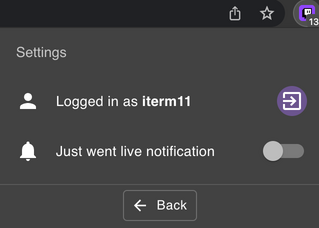
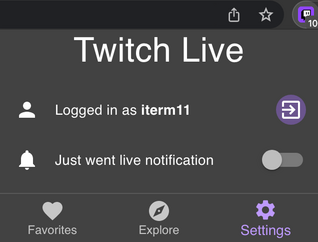
Update documentation

diff --git a/src/infrastructure/background/justWenLiveNotifications.ts b/src/infrastructure/background/justWenLiveNotifications.ts
@@ -3,9 +3,10 @@ import { getJustWentLive } from '../twitch/twitchService';
 import { browser, Notifications } from 'webextension-polyfill-ts';
 import { isFirefox } from '../../utils/browserUtils';
 import { isWindows } from '../../utils/operatingSystem';
-import CreateNotificationOptions = Notifications.CreateNotificationOptions;
 
-const createNotificationOptions = (stream: FollowedLivestream): CreateNotificationOptions => {
+const createNotificationOptions = (
+    stream: FollowedLivestream,
+): Notifications.CreateNotificationOptions => {
     const game: string = (stream.game && `Streaming ${stream.game}`) || 'Stream game is not set';
     const clickHereMessage = 'Click here to watch it';
 
@@ -28,7 +29,9 @@ export const processJustWentLiveNotificationsAlarm = async () => {
         const justWentLiveStreams: FollowedLivestream[] = await getJustWentLive();
 
         justWentLiveStreams.map(async (stream: FollowedLivestream) => {
-            const options: CreateNotificationOptions = createNotificationOptions(stream);
+            const options: Notifications.CreateNotificationOptions = createNotificationOptions(
+                stream,
+            );
             const notificationId: string = await browser.notifications.create(options);
             linkMap[notificationId] = stream.url;
         });

diff --git a/README.md b/README.md
@@ -34,6 +34,13 @@ The extension is available for [Chrome/Microsoft Edge](https://chrome.google.com
 ![Extension List](./assets/extension_no_hover_icon_changelog.png "Extension")
 ![Extension Over](./assets/extension_hover_icon_changelog.png "Extension Over")
 
+## Explore Top livestreams
+
+On the Explore tab, you can see the livestreams with most viewers order descently. Once you reach the bottom of the list, more streams will be loaded.
+
+![Explore](./assets/explore_changelog.png "Explore")
+![Explore Loading](./assets/explore_loading_changelog.png "Explore Loading")
+
 
 ## Settings
 

diff --git a/changelogs/3_3_0.md b/changelogs/3_3_0.md
@@ -1,0 +1,9 @@
+# Twitch Live Extension v3.3.0
+
+**_Twitch Live Extension_** has the ability to look through the list of the most watched livestreams! To use this feature, open the extension, press "Explore" and scroll through the infinite list of streams.
+
+Apart from this new feature, the UI has been slightly changed to be more user friendly.
+
+
+![Extension Over](../assets/extension_hover_icon_changelog.png "Extension Over")
+![Explore](../assets/explore_changelog.png "Explore")

diff --git a/CHANGELOG.md b/CHANGELOG.md
@@ -1,5 +1,11 @@
 # Changelog
 
+## 3.3.0 (Aug 5th 2022)
+
+### Functionalities:
+- Adds explore livestreams option
+- UI refactor
+
 ## 3.2.1 (May 6th, 2022)
 
 ### Fixes:
